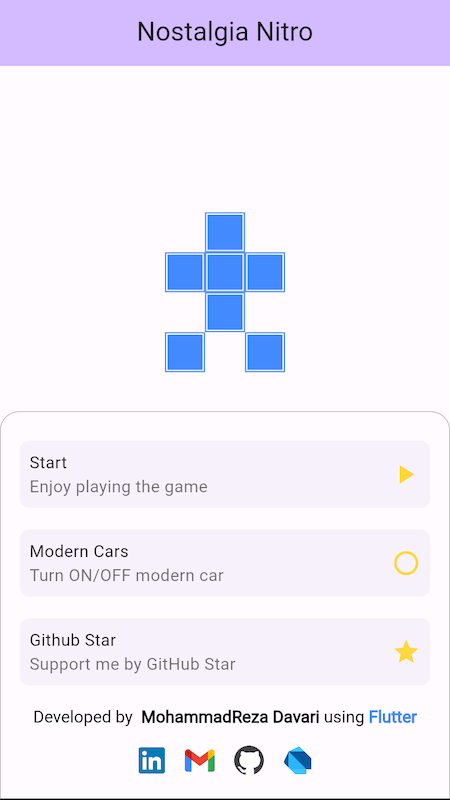
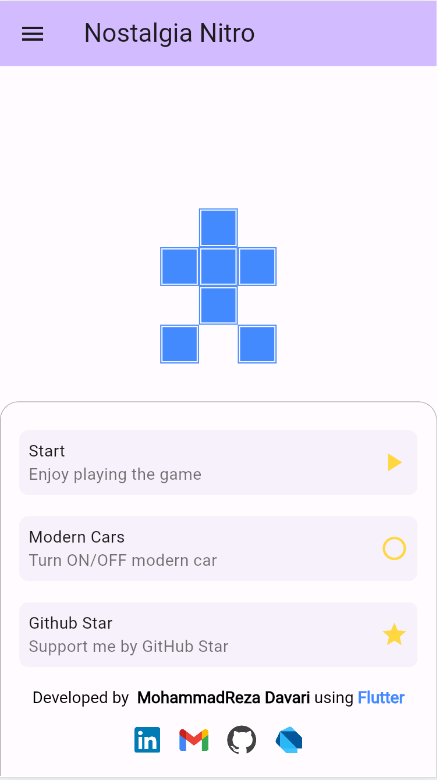
v1.0.0-stable

diff --git a/lib/widgets/drawer_widget.dart b/lib/widgets/drawer_widget.dart
@@ -1,0 +1,279 @@
+import 'package:flutter/material.dart';
+import 'package:get/get.dart';
+import 'dart:js' as js;
+
+import 'package:nostalgia_nitro/widgets/flipper_widget.dart';
+
+class DrawerWidget extends StatelessWidget {
+  DrawerWidget({Key? key}) : super(key: key);
+  @override
+  Widget build(BuildContext context) {
+    return Drawer(
+      width: MediaQuery.of(context).size.width / 1.3,
+      child: SingleChildScrollView(
+        child: Column(
+          mainAxisAlignment: MainAxisAlignment.start,
+          crossAxisAlignment: CrossAxisAlignment.start,
+          mainAxisSize: MainAxisSize.min,
+          children: [
+            Container(
+              padding: const EdgeInsets.all(16),
+              color: Colors.black12,
+              child: Column(
+                mainAxisAlignment: MainAxisAlignment.start,
+                crossAxisAlignment: CrossAxisAlignment.stretch,
+                mainAxisSize: MainAxisSize.min,
+                children: [
+                  Stack(
+                    children: [
+                      Align(alignment: Alignment.centerLeft,child: FlipperView(child: Image.asset('assets/logo.png',width: 80,height: 80,),)),
+                      Positioned(top: 5,right: 5,child: IconButton(onPressed: ()=>Get.back(), icon: const Icon(Icons.close,size: 16,)))
+                    ],
+                  ),
+                  const SizedBox(
+                    height: 10,
+                  ),
+                  Align(
+                    alignment: Alignment.centerLeft,
+                    child: InkWell(
+                      onTap: (){
+                        js.context.callMethod('open', ['https://github.com/m-r-davari/nostalgia_nitro']);
+                      },
+                      child: const Row(
+                        mainAxisAlignment: MainAxisAlignment.start,
+                        mainAxisSize: MainAxisSize.min,
+                        children: [
+                          Text(
+                            'Nostalgia Nitro',
+                            style: TextStyle(fontSize: 15, fontWeight: FontWeight.bold),
+                          ),
+                          SizedBox(width: 4,),
+                          Icon(Icons.outbond_outlined,size: 15,color: Colors.blueAccent,)
+                        ],
+                      ),
+                    ),
+                  ),
+                  const SizedBox(
+                    height: 6,
+                  ),
+                  const Text('A nostalgia racing game developed by MohammadReza Davari using Flutter, that rekindle your childhood memories.',style: TextStyle(fontSize: 13),),
+                  const SizedBox(
+                    height: 10,
+                  ),
+                  Align(
+                    alignment: Alignment.centerLeft,
+                    child: InkWell(
+                      onTap: (){
+                        js.context.callMethod('open', ['mailto:m.r.davari92@gmail.com']);
+                      },
+                      child: Row(
+                        crossAxisAlignment: CrossAxisAlignment.center,
+                        mainAxisAlignment: MainAxisAlignment.start,
+                        mainAxisSize: MainAxisSize.min,
+                        children: [
+                          Container(
+                            width: 18,height: 15,
+                              decoration: const BoxDecoration(
+                                  color: Colors.blueAccent,
+                                  borderRadius: BorderRadius.all(Radius.circular(4))
+                              ),
+                              child: const Icon(Icons.mail_outline_sharp,color: Colors.white,size: 11,)
+                          ),
+                          const SizedBox(width: 6,),
+                          const Text('m.r.davari92@gmail.com',style: TextStyle(fontSize: 13),),
+                        ],
+                      ),
+                    ),
+                  ),
+                  Align(
+                    alignment: Alignment.centerLeft,
+                    child: InkWell(
+                      onTap: (){
+                        js.context.callMethod('open', ['https://www.linkedin.com/in/m-r-davari92']);
+                      },
+                      child: Row(
+                        crossAxisAlignment: CrossAxisAlignment.center,
+                        mainAxisAlignment: MainAxisAlignment.start,
+                        mainAxisSize: MainAxisSize.min,
+                        children: [
+                          Container(
+                              width: 18,height: 15,
+                              alignment: Alignment.center,
+                              padding: const EdgeInsets.only(top: 0,bottom: 3.5,left: 0,right: 0),
+                              decoration: const BoxDecoration(
+                            color: Colors.blueAccent,
+                            borderRadius: BorderRadius.all(Radius.circular(4))
+                          ),child: const Text('in',style: TextStyle(color: Colors.white,fontWeight: FontWeight.bold,fontSize: 11),)),
+                          const SizedBox(width: 6,),
+                          const Text('linkedin.com/in/m-r-davari92',style: TextStyle(fontSize: 13),),
+                        ],
+                      ),
+                    ),
+                  ),
+                ],
+              ),
+            ),
+            Padding(
+              padding: const EdgeInsets.only(top: 16,left: 16,right: 16,bottom: 8),
+              child: Column(
+                mainAxisAlignment: MainAxisAlignment.start,
+                mainAxisSize: MainAxisSize.min,
+                crossAxisAlignment: CrossAxisAlignment.stretch,
+                children: [
+                  Align(
+                    alignment: Alignment.centerLeft,
+                    child: InkWell(
+                      onTap: (){
+                        js.context.callMethod('open', ['https://github.com/m-r-davari/nostalgia_nitro']);
+                      },
+                      child: const Column(
+                        mainAxisAlignment: MainAxisAlignment.start,
+                        mainAxisSize: MainAxisSize.min,
+                        crossAxisAlignment: CrossAxisAlignment.start,
+                        children: [
+                          Text('Show some ❤ and support me with your stars ✨',style: TextStyle(fontSize: 13),),
+                          Text('https://github.com/m-r-davari/nostalgia_nitro',style: TextStyle(color: Colors.blueAccent,fontSize: 13),),
+                        ],
+                      ),
+                    ),
+                  ),
+                  const SizedBox(height: 8,),
+                  const Text('You are welcomed to contribute.',style: TextStyle(fontSize: 13)),
+                  // const SizedBox(height: 8,),//16
+                  // Align(
+                  //   alignment: Alignment.centerLeft,
+                  //   child: InkWell(
+                  //     onTap: (){
+                  //       js.context.callMethod('open', ['https://github.com/m-r-davari/nostalgia_nitro']);
+                  //     },
+                  //     child: const Padding(
+                  //       padding: EdgeInsets.all(0),//8
+                  //       child: Row(
+                  //         mainAxisAlignment: MainAxisAlignment.start,
+                  //         mainAxisSize: MainAxisSize.min,
+                  //         crossAxisAlignment: CrossAxisAlignment.center,
+                  //         children: [
+                  //           Flexible(child: Text('How to use?',style: TextStyle(fontSize: 13))),
+                  //           SizedBox(width: 4,),
+                  //           Icon(Icons.outbond_outlined,size: 16,color: Colors.blueAccent,)
+                  //         ],
+                  //       ),
+                  //     ),
+                  //   ),
+                  // )
+                ],
+              ),
+            ),
+            const Divider(indent: 10,endIndent: 10,),
+            Padding(
+              padding: const EdgeInsets.only(left: 16,right: 16,bottom: 16,top: 8),
+              child: Column(
+                mainAxisAlignment: MainAxisAlignment.start,
+                mainAxisSize: MainAxisSize.min,
+                crossAxisAlignment: CrossAxisAlignment.start,
+                children: [
+                  //const SizedBox(height: 16,),
+                  const Text('My Other Projects : ',style: TextStyle(fontWeight: FontWeight.bold,fontSize: 13),),
+                  Padding(
+                      padding: const EdgeInsets.all(8),
+                      child: Column(
+                        mainAxisAlignment: MainAxisAlignment.start,
+                        mainAxisSize: MainAxisSize.min,
+                        crossAxisAlignment: CrossAxisAlignment.start,
+                        children: [
+                          const Text('Visit my other projects & support me with your pub.dev likes and github stars.',style: TextStyle(fontSize: 13)),
+                          const SizedBox(height: 8,),
+                          Align(
+                            alignment: Alignment.centerLeft,
+                            child: InkWell(
+                              onTap: ()async{
+                                js.context.callMethod('open', ['https://pub.dev/packages/flutter_3d_controller']);
+                                // await Future.delayed(const Duration(milliseconds: 100));
+                                // js.context.callMethod('open', ['https://github.com/m-r-davari/flutter_3d_controller']);
+                              },
+                              child: const Column(
+                                mainAxisAlignment: MainAxisAlignment.start,
+                                crossAxisAlignment: CrossAxisAlignment.start,
+                                mainAxisSize: MainAxisSize.min,
+                                children: [
+                                  Row(
+                                    mainAxisAlignment: MainAxisAlignment.start,
+                                    mainAxisSize: MainAxisSize.min,
+                                    children: [
+                                      Text('Flutter 3D Controller',style: TextStyle(color: Colors.blueAccent,fontSize: 13,fontWeight: FontWeight.bold)),
+                                      SizedBox(width: 4,),
+                                      Icon(Icons.outbond_outlined,size: 16,color: Colors.blueAccent,)
+                                    ],
+                                  ),
+                                  Text('A Flutter package for rendering interactive 3D models in different formats(glb, gltf, fbx, obj), with ability to control animations, textures and camera.',style: TextStyle(fontSize: 13))
+                                ],
+                              ),
+                            ),
+                          ),
+                          const SizedBox(height: 8,),
+                          Align(
+                            alignment: Alignment.centerLeft,
+                            child: InkWell(
+                              onTap: ()async{
+                                js.context.callMethod('open', ['https://github.com/m-r-davari/github_readme_beautifier']);
+                              },
+                              child: const Column(
+                                mainAxisAlignment: MainAxisAlignment.start,
+                                crossAxisAlignment: CrossAxisAlignment.start,
+                                mainAxisSize: MainAxisSize.min,
+                                children: [
+                                  Row(
+                                    mainAxisAlignment: MainAxisAlignment.start,
+                                    mainAxisSize: MainAxisSize.min,
+                                    children: [
+                                      Text('GitHub Readme Beautifier',style: TextStyle(color: Colors.blueAccent,fontSize: 13,fontWeight: FontWeight.bold)),
+                                      SizedBox(width: 4,),
+                                      Icon(Icons.outbond_outlined,size: 16,color: Colors.blueAccent,)
+                                    ],
+                                  ),
+                                  Text('A web app to beautify and enhance your Github README file, that provides interesting widgets in GIF(animated) format for both light & dark github theme.',style: TextStyle(fontSize: 13))
+                                ],
+                              ),
+                            ),
+                          ),
+                          const SizedBox(height: 8,),
+                          Align(
+                            alignment: Alignment.centerLeft,
+                            child: InkWell(
+                              onTap: ()async{
+                                js.context.callMethod('open', ['https://pub.dev/packages/common_utilities']);
+                                // await Future.delayed(const Duration(milliseconds: 100));
+                                // js.context.callMethod('open', ['https://github.com/m-r-davari/dart_common_utilities']);
+                              },
+                              child: const Column(
+                                mainAxisAlignment: MainAxisAlignment.start,
+                                crossAxisAlignment: CrossAxisAlignment.start,
+                                mainAxisSize: MainAxisSize.min,
+                                children: [
+                                  Row(
+                                    mainAxisAlignment: MainAxisAlignment.start,
+                                    mainAxisSize: MainAxisSize.min,
+                                    children: [
+                                      Text('Common Utilities',style: TextStyle(color: Colors.blueAccent,fontSize: 13,fontWeight: FontWeight.bold)),
+                                      SizedBox(width: 4,),
+                                      Icon(Icons.outbond_outlined,size: 16,color: Colors.blueAccent,)
+                                    ],
+                                  ),
+                                  Text('A Dart language Common Utility package, that makes your code faster, easier and cleaner. contains lots of useful functions for Dart primitive types (support all Flutter platforms)',style: TextStyle(fontSize: 13))
+                                ],
+                              ),
+                            ),
+                          )
+                        ],
+                      )
+                  )
+                ],
+              ),
+            )
+
+          ],
+        ),
+      ),
+    );
+  }
+}

diff --git a/lib/widgets/flipper_widget.dart b/lib/widgets/flipper_widget.dart
@@ -1,0 +1,69 @@
+import 'dart:math';
+import 'package:flutter/material.dart';
+
+
+class FlipperView extends StatefulWidget {
+  final Widget child;
+  const FlipperView({super.key,required this.child});
+
+  @override
+  State<StatefulWidget> createState() {
+    return _FlipperViewState();
+  }
+}
+
+class _FlipperViewState extends State<FlipperView> with TickerProviderStateMixin {
+
+  //flip
+  late AnimationController flipController;
+  late Animation flipAnim;
+
+  @override
+  void initState() {
+    super.initState();
+
+
+    flipController = AnimationController(duration: const Duration(milliseconds: 2000), vsync: this);
+    flipAnim = Tween(begin: 0.0, end: 1.0).animate(
+        CurvedAnimation(parent: flipController, curve: const Interval(0.0, 1.0, curve: Curves.linear)));
+
+    flipAnim.addStatusListener((status) {
+      if (status == AnimationStatus.completed) {
+        Future.delayed(const Duration(seconds: 1),(){
+          flipController.reset();
+          flipController.forward();
+        });
+      }
+    });
+
+  }
+
+  @override
+  Widget build(BuildContext context) {
+    return AnimatedBuilder(
+        animation: flipController,
+        builder: (BuildContext context, Widget? child) {
+          flipController.forward();
+          return Transform(
+            transform: Matrix4.identity()
+              ..setEntry(3, 2, 0.001)
+              ..rotateY(2 * pi * flipAnim.value),
+            alignment: Alignment.center,
+            child: widget.child,
+          );
+        }
+    );
+  }
+
+
+  @override
+  void dispose() {
+    flipController.dispose();
+    super.dispose();
+  }
+
+}
+
+
+
+

diff --git a/lib/pages/home_page.dart b/lib/pages/home_page.dart
@@ -3,6 +3,7 @@ import 'package:get/get.dart';
 import 'package:nostalgia_nitro/utils/shared_pref.dart';
 import 'package:nostalgia_nitro/utils/utils.dart';
 import 'package:nostalgia_nitro/widgets/car_widget.dart';
+import 'package:nostalgia_nitro/widgets/drawer_widget.dart';
 import 'package:nostalgia_nitro/widgets/menu_item.dart';
 import 'dart:js' as js;
 
@@ -52,6 +53,7 @@ class _HomePageState extends State<HomePage> with TickerProviderStateMixin {
         backgroundColor: Theme.of(context).colorScheme.inversePrimary,
         title: const Text('Nostalgia Nitro'),
       ),
+      drawer: DrawerWidget(),
       body: Container(
         alignment: Alignment.center,
         //padding: const EdgeInsets.all(32),
@@ -87,11 +89,7 @@ class _HomePageState extends State<HomePage> with TickerProviderStateMixin {
                       onClick: () {
                         transUpController.forward();
                       },
-                      trailing: InkWell(
-                          onTap: () {
-                            print('----infoer---');
-                          },
-                          child: Icon(Icons.play_arrow,size: 26,color: trailColor,))),
+                      trailing: Icon(Icons.play_arrow,size: 26,color: trailColor,)),
                   const SizedBox(
                     height: 18,
                   ),

diff --git a/README.md b/README.md
@@ -1,6 +1,7 @@
 # nostalgia_nitro
 
-A nostalgia racing game developed by MohammadReza Davari using **Flutter**.
+A nostalgia racing game developed by MohammadReza Davari using **Flutter**, that rekindle your childhood memories.
+
 
 **Demo**
 <p align="center" width="100%">
